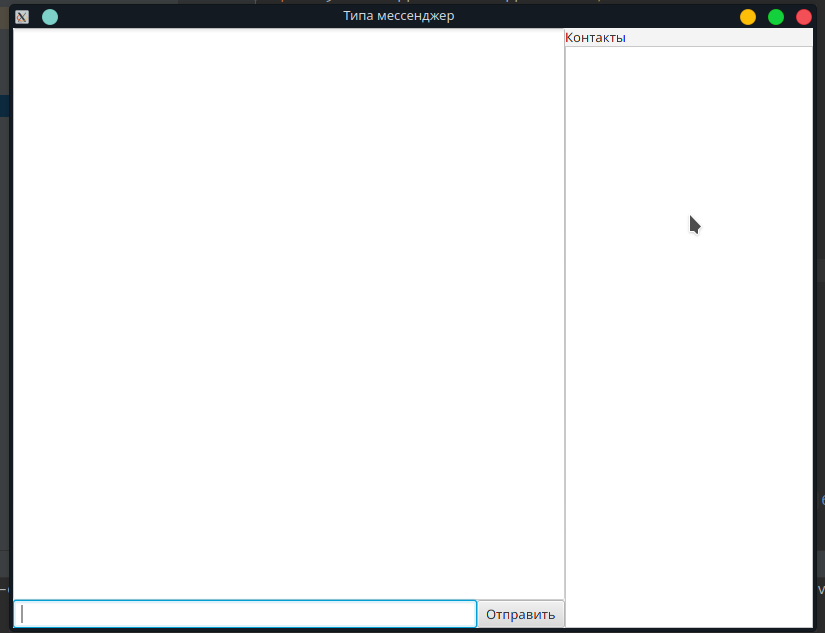
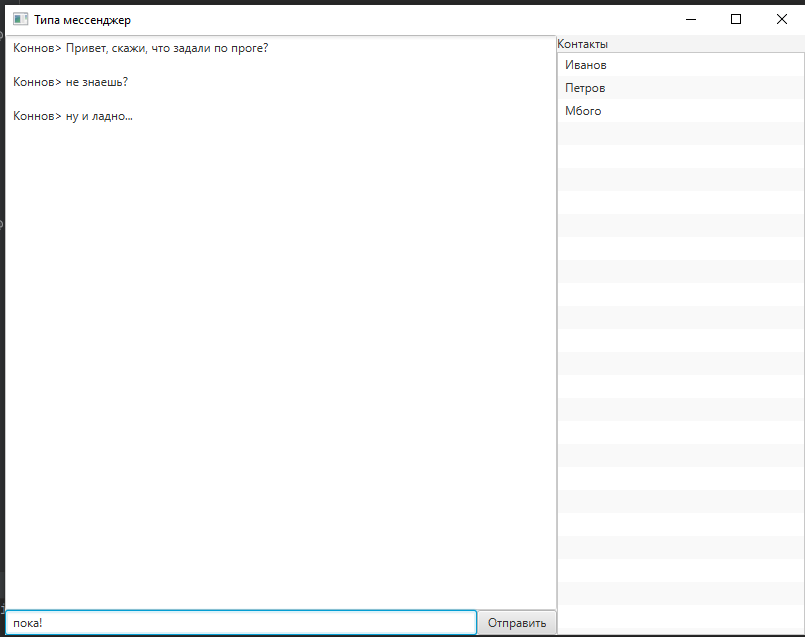
добавил задания 3 и 4 для задания про интерфейс мессенджера

Changed region(s): [[0.0, 0.0, 1.0, 1.0], [0.8385, 0.3302, 0.8696, 0.3602]]

diff --git a/src/Messenger/MessengerBoxes.java b/src/Messenger/MessengerBoxes.java
@@ -13,7 +13,7 @@ import javafx.scene.layout.VBox;
 import javafx.stage.Stage;
 
 public class MessengerBoxes extends Application {
-    public static final String NAME = "Main";
+    public static final String NAME = "Коннов";
 
     public static void main(String[] args) { launch(args); }
 
@@ -37,6 +37,7 @@ public class MessengerBoxes extends Application {
         VBox left = new VBox(leftTop, leftBottom);
         Label rightLabel = new Label("Контакты");
         ListView<String> rightListView = new ListView<>();
+        rightListView.getItems().addAll("Иванов", "Петров", "Мбого");
         VBox right = new VBox(rightLabel, rightListView);
         HBox window = new HBox(left, right);
 

diff --git a/src/Messenger/README.md b/src/Messenger/README.md
@@ -9,4 +9,5 @@
 # внешний вид
 
 - через VBox и HBox
-![Интерфейс](interface1.png)
+  ![Интерфейс](interface1.png)
+  ![Интерфейс](interface2.png)
